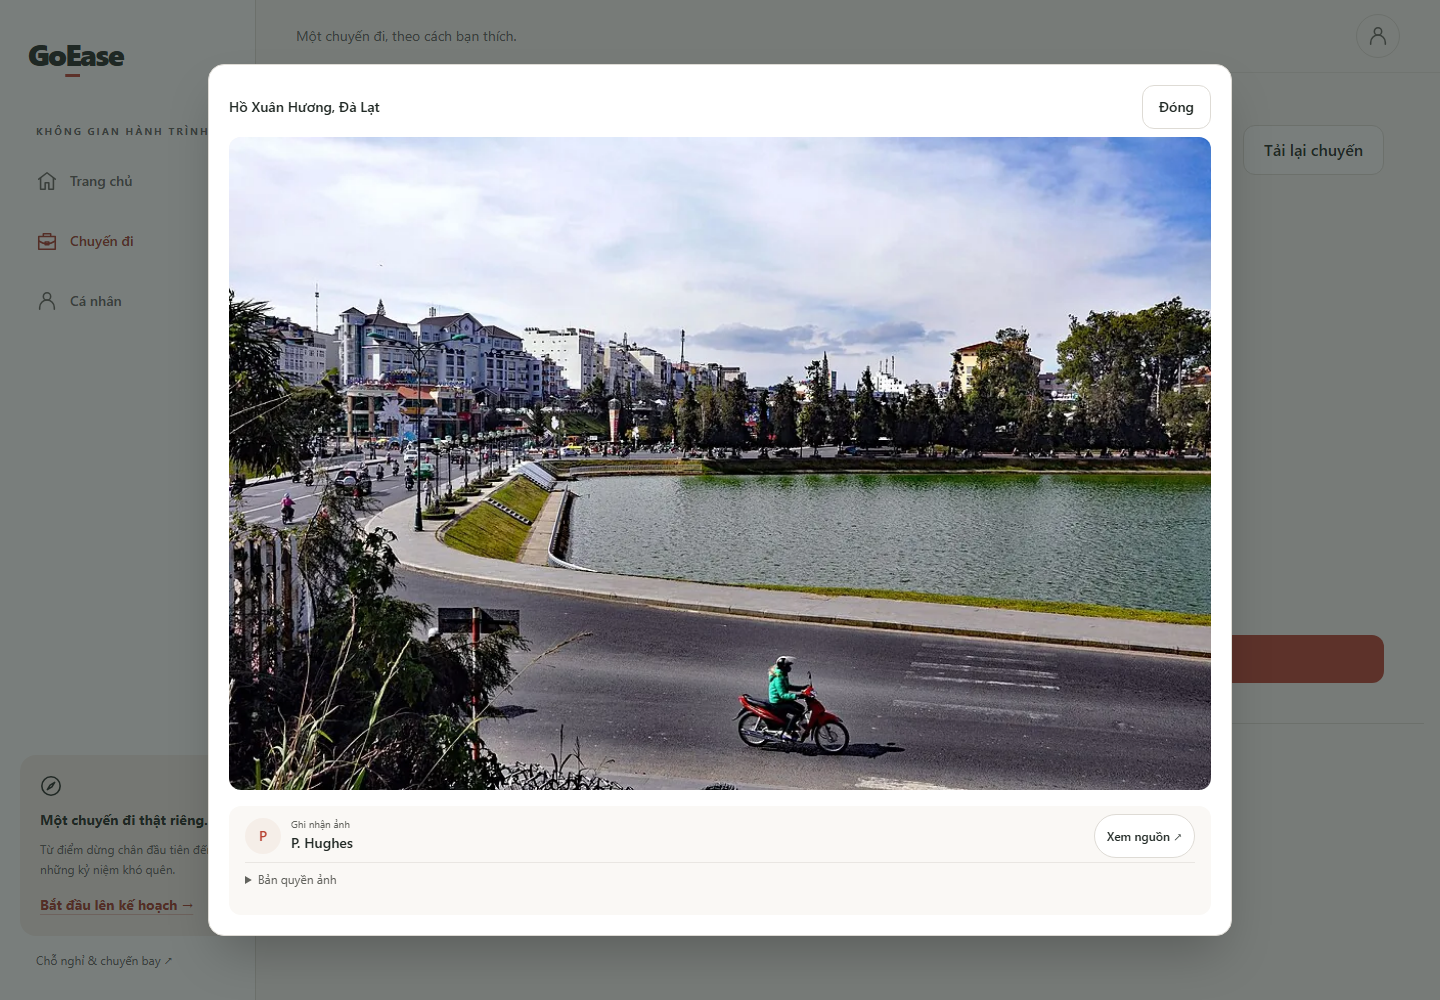
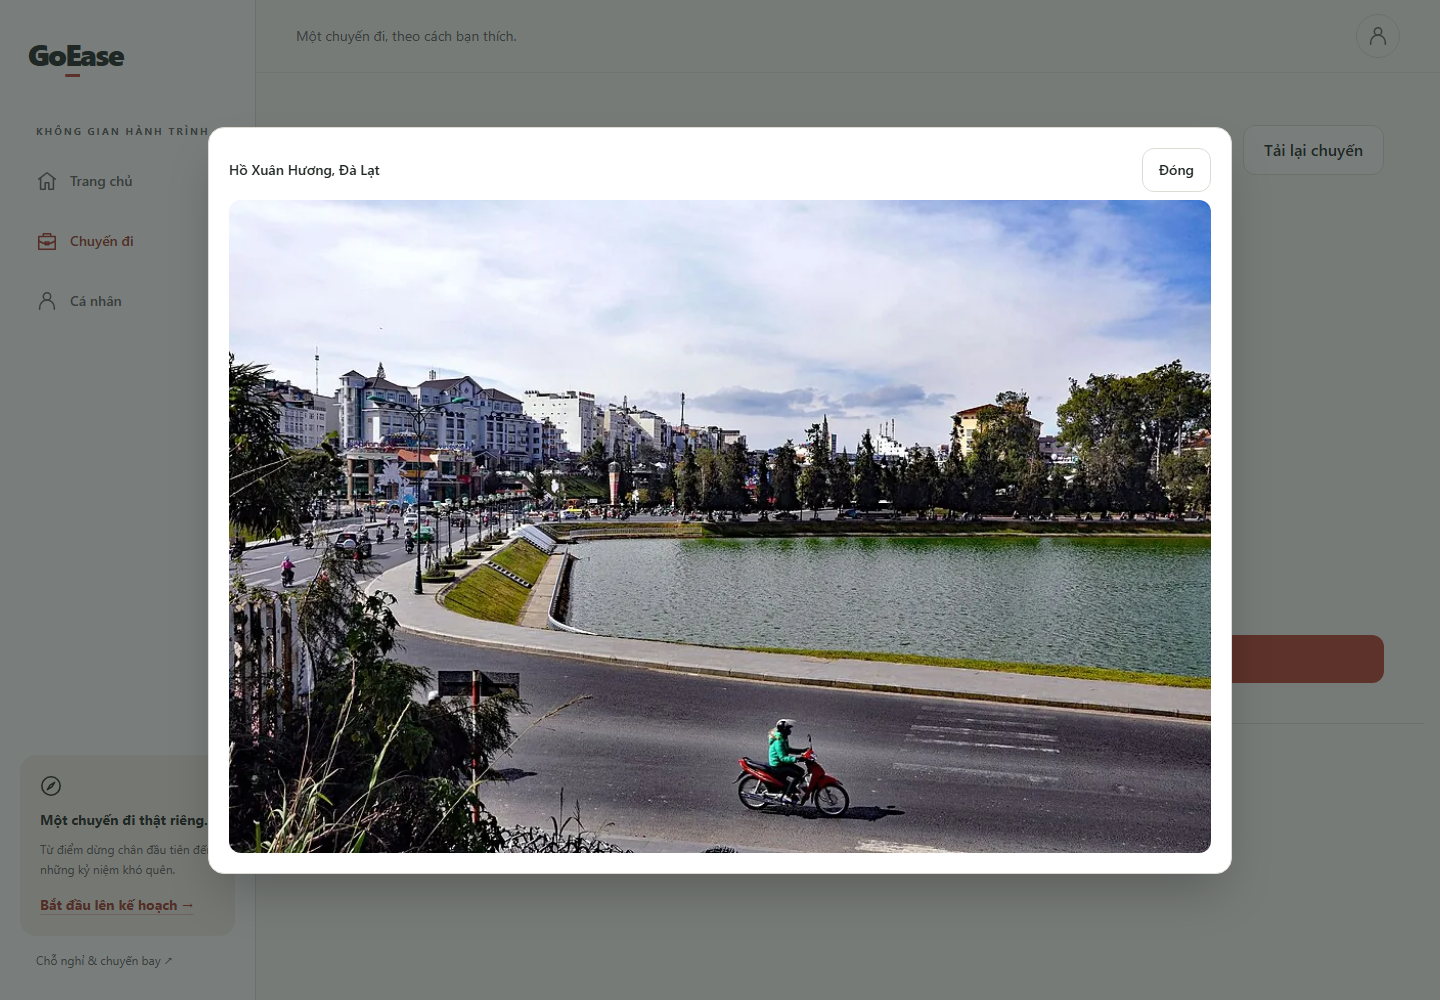
fix(web): remove visible photo credits from viewer

diff --git a/apps/web/src/features/trips/travel-photo.tsx b/apps/web/src/features/trips/travel-photo.tsx
@@ -112,48 +112,6 @@ function PhotoChain({
             onError={() => setIndex((value) => value + 1)}
           />
         )}
-        <div className="mt-4 rounded-xl bg-cream px-3 py-2 sm:px-4">
-          <div className="flex flex-wrap items-center justify-between gap-2">
-            <div className="flex min-w-0 flex-1 items-center gap-2.5">
-              <span
-                aria-hidden="true"
-                className="grid size-9 shrink-0 place-items-center rounded-full bg-sand text-sm font-semibold text-teal"
-              >
-                {photo.author.slice(0, 1).toUpperCase()}
-              </span>
-              <div className="min-w-0">
-                <p className="text-[10px] text-muted">Ghi nhận ảnh</p>
-                <p className="text-sm font-medium break-words">{photo.author}</p>
-              </div>
-            </div>
-            <a
-              className="inline-flex min-h-11 shrink-0 items-center rounded-full border border-line bg-paper px-3 text-xs font-medium text-ink transition-colors hover:border-teal hover:text-teal"
-              href={photo.sourceUrl}
-              target="_blank"
-              rel="noopener noreferrer"
-            >
-              Xem nguồn ↗
-            </a>
-          </div>
-          {photo.licenseUrl && (
-            <details className="mt-1 border-t border-line/60 text-xs text-muted">
-              <summary className="font-normal">Bản quyền ảnh</summary>
-              <div className="pb-2">
-                <a
-                  className="text-teal underline underline-offset-4"
-                  href={photo.licenseUrl}
-                  target="_blank"
-                  rel="noopener noreferrer"
-                >
-                  {photo.license}
-                </a>
-                <p className="mt-2 leading-relaxed">
-                  Ảnh đã được thu nhỏ; ảnh xem trước được cắt khung.
-                </p>
-              </div>
-            </details>
-          )}
-        </div>
       </dialog>
     </figure>
   );

diff --git a/apps/web/public/travel/README.md b/apps/web/public/travel/README.md
@@ -1,6 +1,6 @@
 # Travel photo credits
 
-These locally bundled photographs are selected from Wikimedia Commons. They are resized and converted to WebP; the UI crops them to fit. Each image retains its own license below (including ShareAlike for the derivative image where applicable). The application makes source/author, license links and modification details available in the photo information dialog opened by clicking the image.
+These locally bundled photographs are selected from Wikimedia Commons. They are resized and converted to WebP; the UI crops them to fit. Each image retains its own license below (including ShareAlike for the derivative image where applicable). Attribution metadata and licenses accompany the distributed assets in this file; the photo viewer does not render credits.
 
 Provider thumbnails remain remote, are preferred for discovered places, and link back to the existing place source. They are not downloaded into this library or cached by the service worker.
 
@@ -22,6 +22,6 @@ Provider thumbnails remain remote, are preferred for discovered places, and link
 
 `apps/web/scripts/import-travel-photos.py` records the reviewed file names and exact-place aliases. Run it with Python + Pillow to import those files and regenerate `src/features/trips/curated-photos.json`. Review the source, license, metadata and appearance whenever changing a selection. Existing matching local files are reused; delete an individual WebP first if intentionally refreshing the same source.
 
-Exact matching is scoped to the destination and normalized place name. City/general overview substitutions and saved-trip covers are retained. Per the clarified request, no illustration badge or source caption is displayed on/below the image. Clicking the image opens its attribution information. Unknown destination IDs use the Đà Lạt overview as a general illustration, with the actual subject retained in alt text and the information dialog.
+Exact matching is scoped to the destination and normalized place name. City/general overview substitutions and saved-trip covers are retained. Per the clarified request, no illustration badge or source caption is displayed on/below the image. Clicking the image opens a larger image without credits. Unknown destination IDs use the Đà Lạt overview as a general illustration, with the actual subject retained in alt text and the information dialog.
 
 Verified metadata and downloaded files: 2026-10-21.

diff --git a/docs/qa/warm-refinement/README.md b/docs/qa/warm-refinement/README.md
@@ -133,3 +133,8 @@ Clicking a trip/activity image now opens a wider photo viewer. The full image fi
 ### Photo motion and attribution layout — 2026-10-21
 
 The viewer now fades/scales in (220 ms) and out (160 ms); desktop thumbnails have a subtle hover zoom. Escape, Close and backdrop clicks share the exit behavior. Reduced-motion preference skips the animated exit and suppresses hover zoom. Attribution is a compact author card with a separate source button; license and transformation details are collapsed under “Bản quyền ảnh”. Build/lint and the five affected browser scenarios pass, including normal animation, reduced-motion layouts, attribution expansion and backdrop closing. Viewer screenshots updated.
+
+
+### Remove credits from viewer — 2026-10-21
+
+Per the explicit request, the viewer no longer renders author/source/license controls or attribution text. It retains the image, location title, Close button, animations, Escape and backdrop closing. Asset provenance and license metadata remain in the distributed travel README and manifest. Build/lint and five related browser flows pass; assertions check that the viewer has no links, attribution details or credit text. Viewer screenshots updated.
